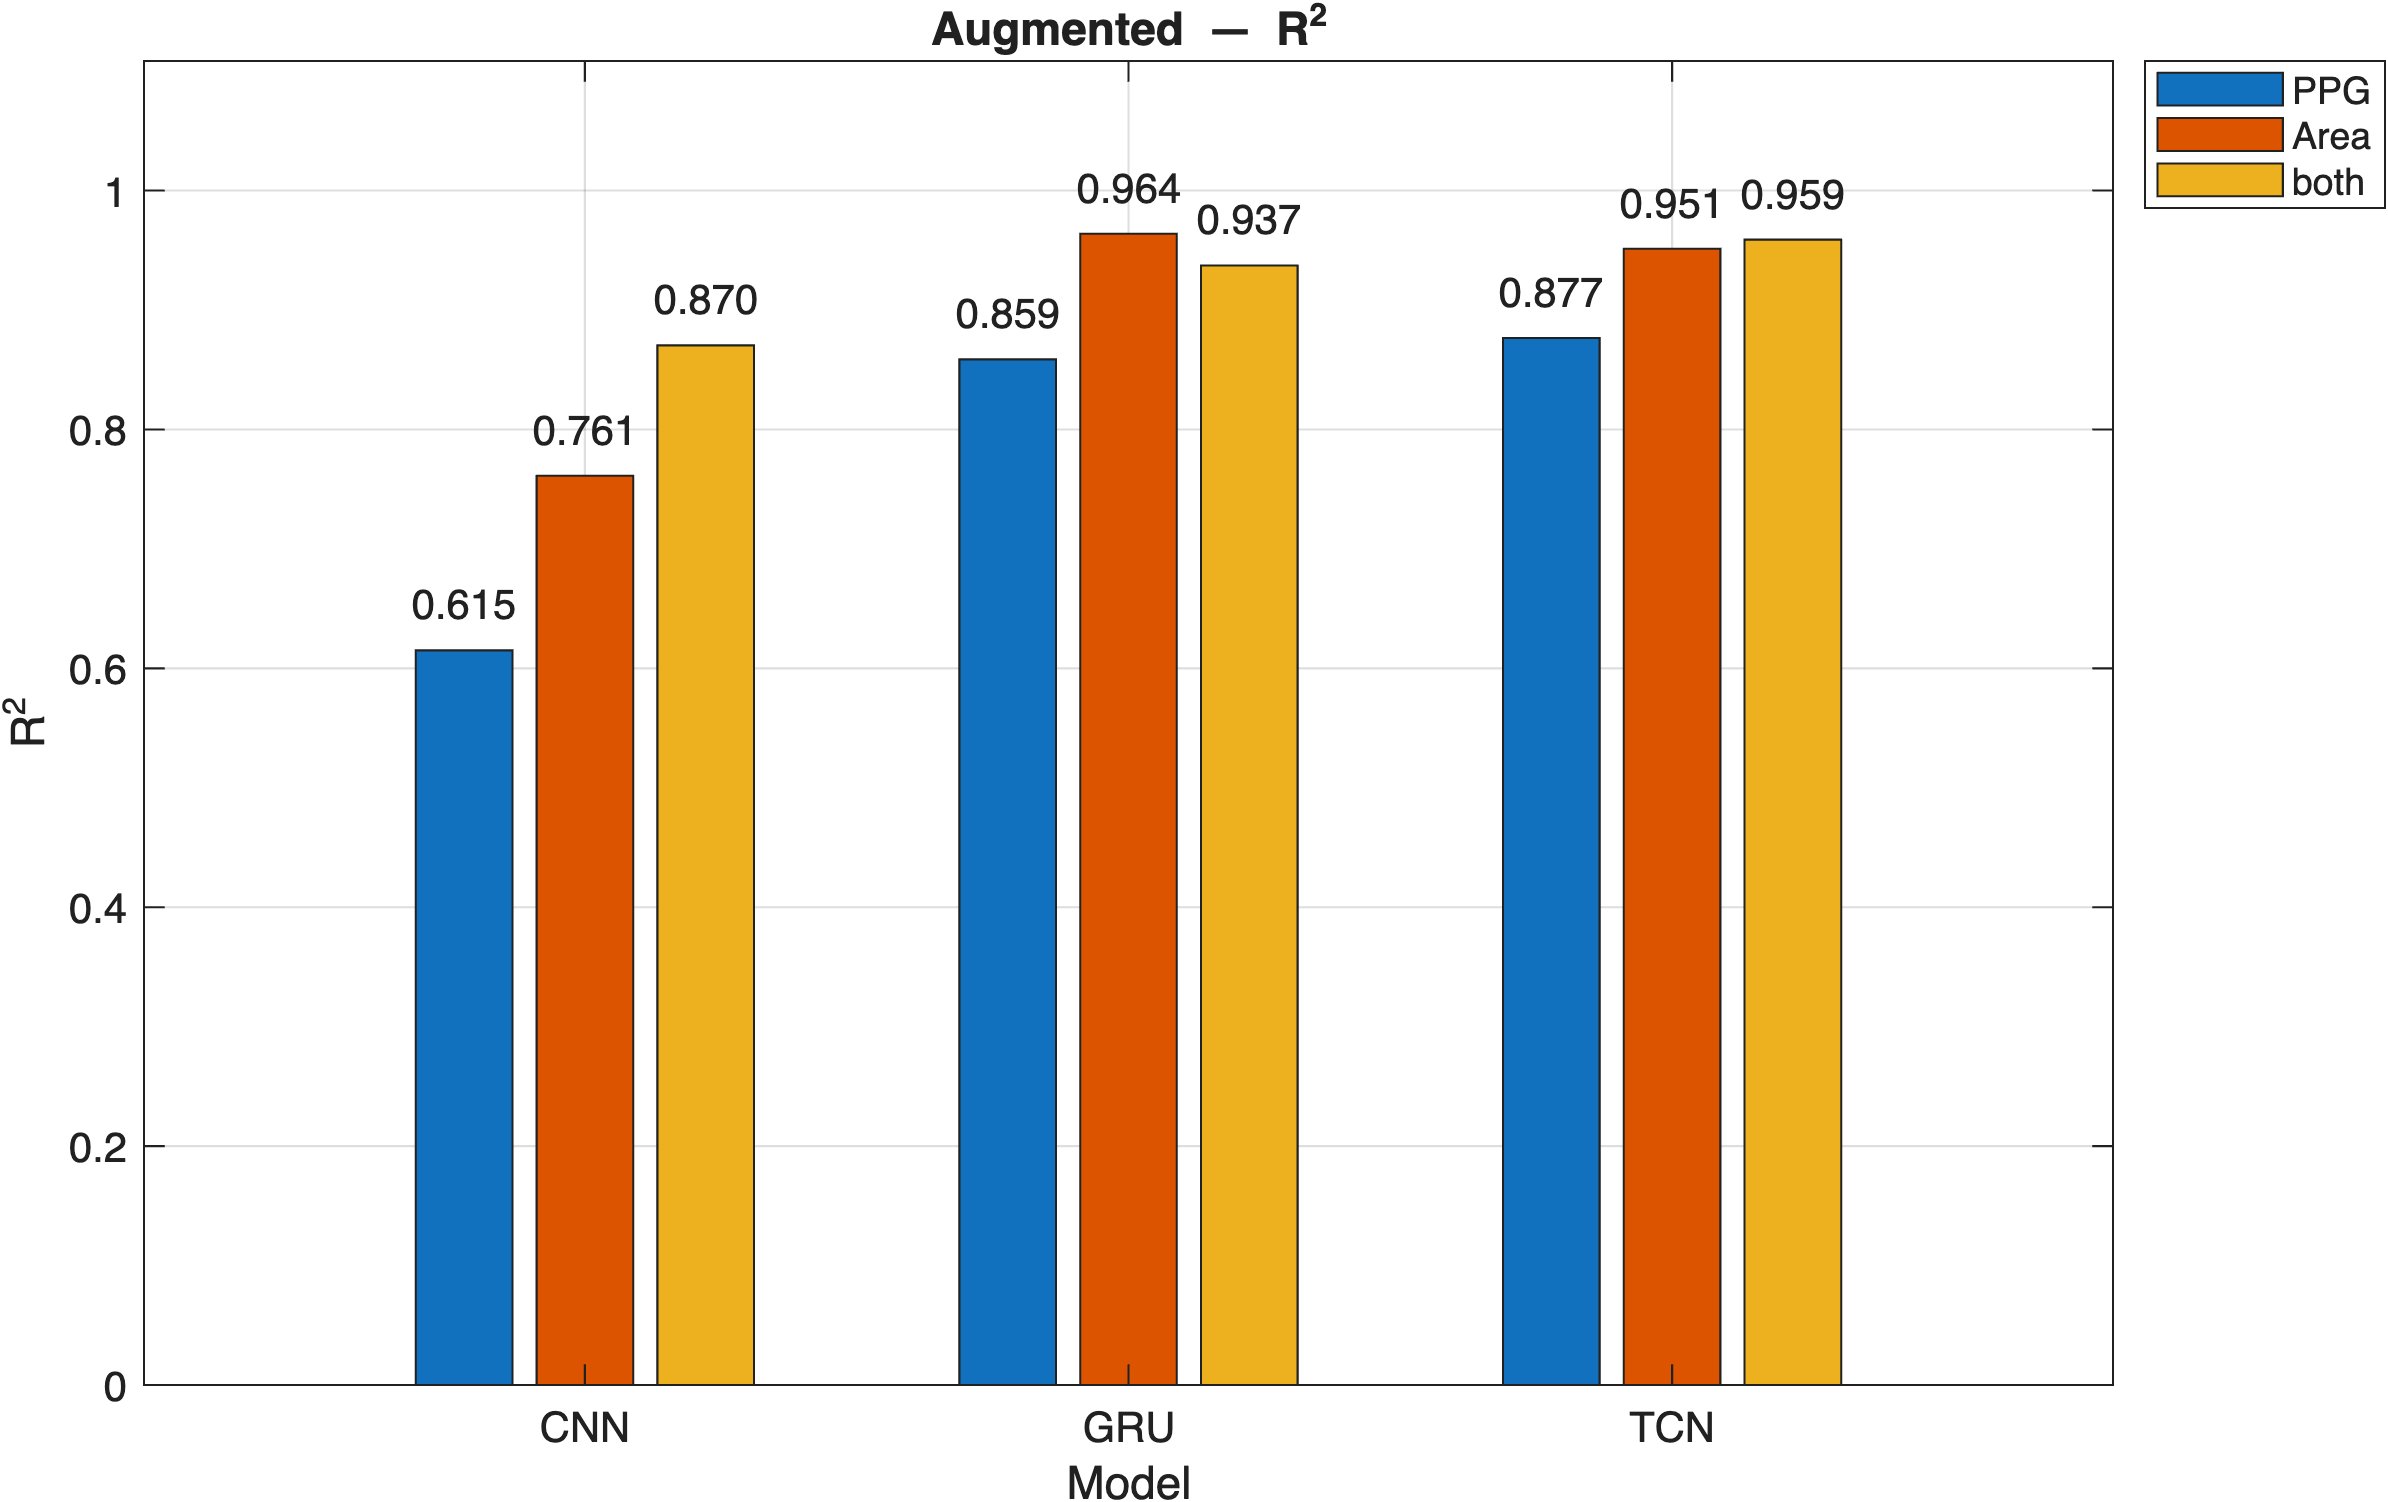
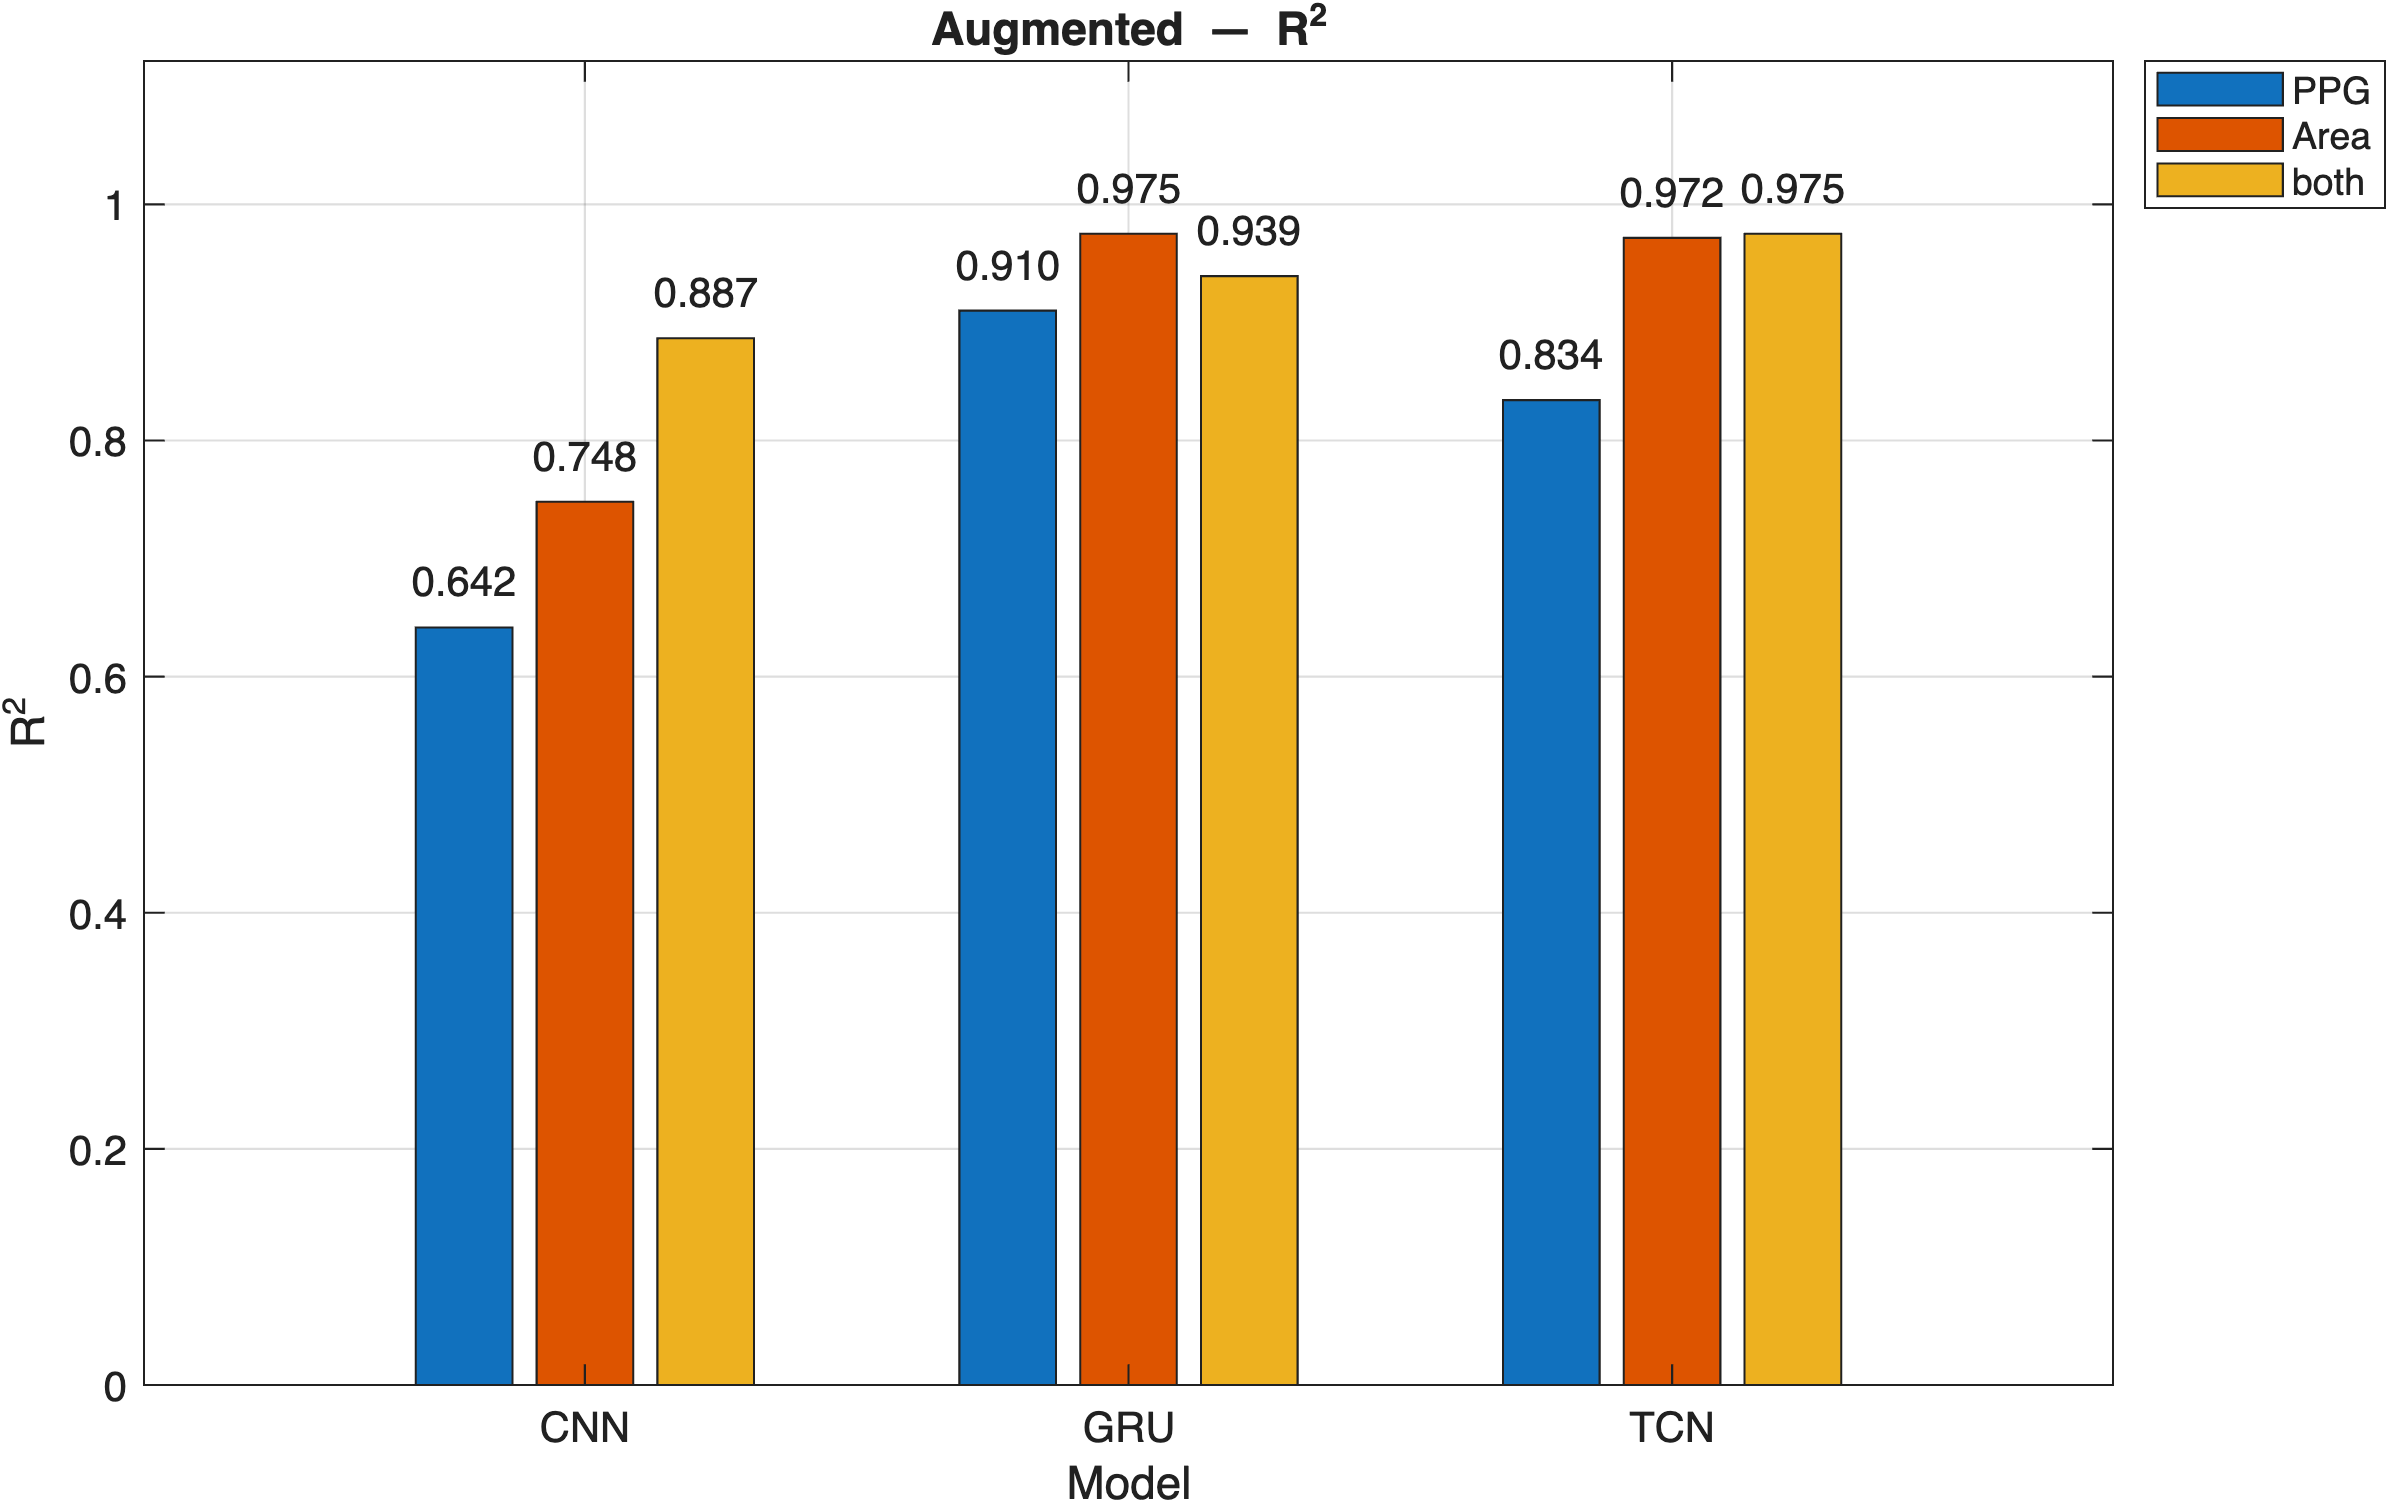
Add table and images of transfer augmented model into clean data testing

diff --git a/src/part11_transfer_eval.m b/src/part11_transfer_eval.m
@@ -16,9 +16,9 @@ function part11_transfer_eval(waves, PWV_cf, which_channels, fs)
     assert(isfield(waves,'PPG_Radial') && isfield(waves,'A_Radial'), 'waves must have PPG_Radial and A_Radial');
 
     % ------------ Load model ------------
-    S = load(fullfile('..','models','part9_models_augmented_Area_with_TCN.mat'));
+    S = load(fullfile('..','models','part9_models_augmented_both.mat'));
 
-    net = S.net_gru;
+    net = S.net_cnn;
     %if isfield(S,'best_model'), fprintf('Loaded best_model: %s\n', string(S.best_model)); end
 
     % ------------ Build CLEAN seqData ------------

diff --git a/src/main.m b/src/main.m
@@ -42,10 +42,9 @@ fprintf('\n=== Complete Analysis Pipeline Finished ===\n');
 summarize_metrics_create_table('clean')
 
 %% Part 11: Transfer clean data to augmented model -> generalized effects
-part11_transfer_eval(waves, PWV_cf, 'area',  fs);
+part11_transfer_eval(waves, PWV_cf, 'both',  fs);
 
-% Output: == Transfer Eval on CLEAN == R^2 = 0.9391 | MAE = 0.3008 m/s | RMSE = 0.4531 m/s
-
+% Output: The results are currently summarized into tables folder
 %% Check parameters
 count_params('../models/part9_models_clean_both.mat');
 
